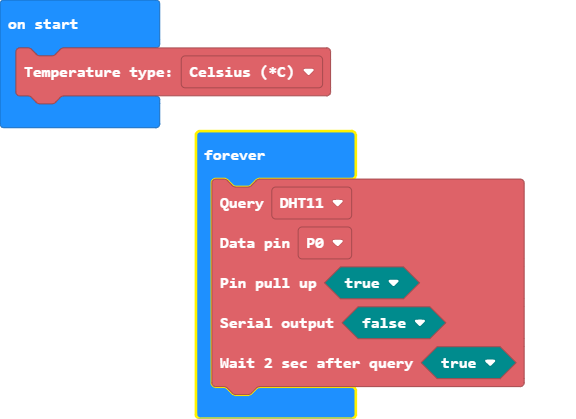
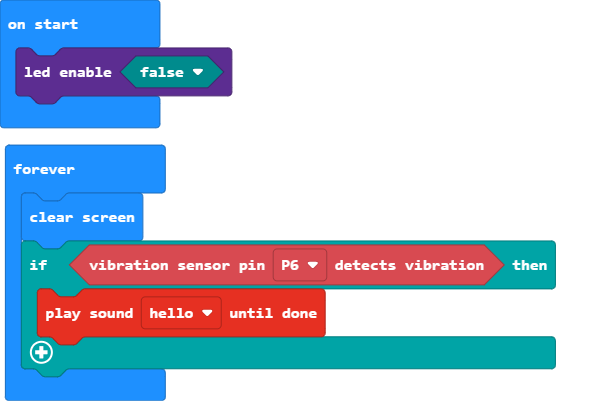
Update main.blocks, _locales/pt-BR/hackbit-jsdoc-strings.json, main.ts, hackbit.ts

diff --git a/main.ts b/main.ts
@@ -1,10 +1,7 @@
-hackbit.selectTempType(hackbit.tempType.celsius)
+led.enable(false)
 basic.forever(function () {
-    hackbit.queryData(
-    hackbit.DHTtype.DHT11,
-    DigitalPin.P0,
-    true,
-    false,
-    true
-    )
+    basic.clearScreen()
+    if (hackbit.VibrationRead(DigitalPin.P6)) {
+        soundExpression.hello.playUntilDone()
+    }
 })

diff --git a/hackbit.ts b/hackbit.ts
@@ -476,7 +476,7 @@ namespace hackbit {
     }
 
     /**
-     * Get vibration state [0-1]
+     * Get vibration state [0-1] SW-420
     */
     //% blockId=hackbitVibrationRead
     //% block="vibration sensor pin |%pin| detects vibration"
